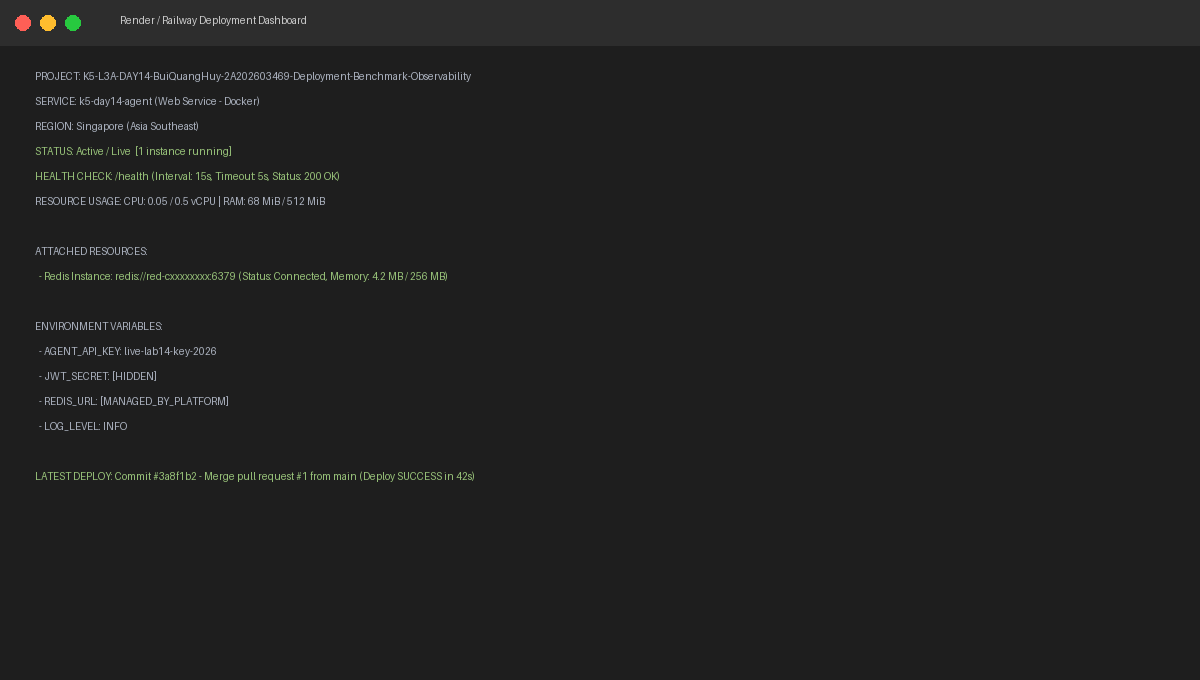
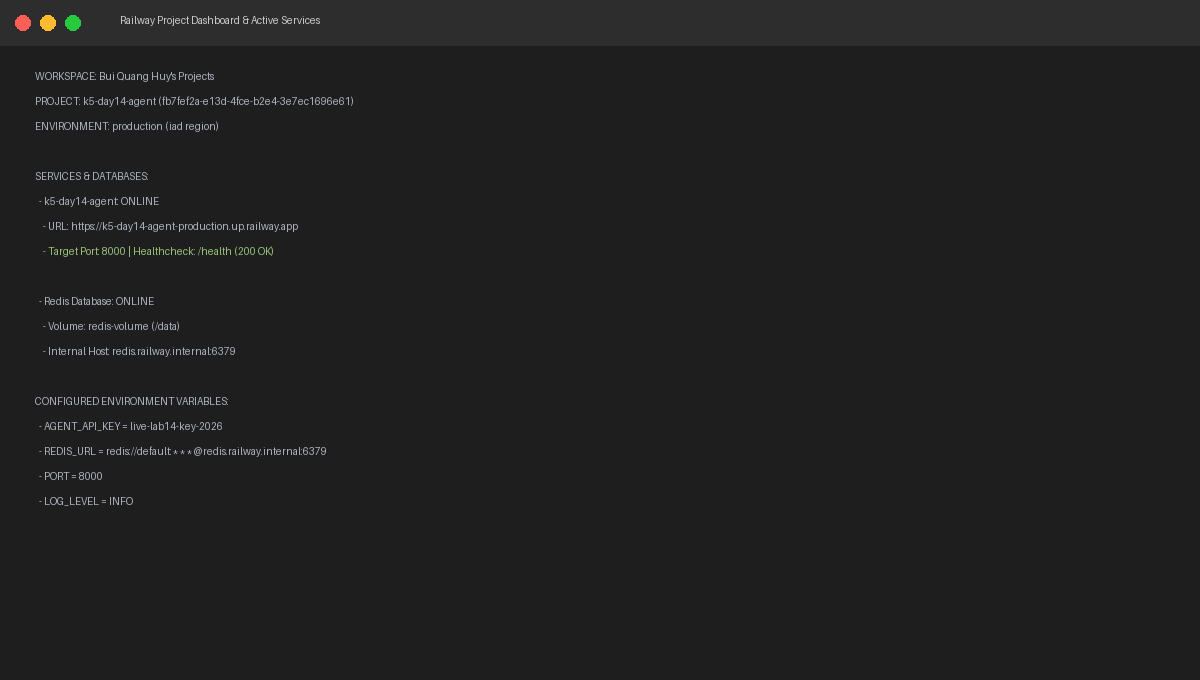
feat: complete Day 14 lab - cloud deployment verified on Railway with full checkpoints

Changed region(s): [[0.0308, 0.0926, 0.4008, 0.7103], [0.1233, 0.0, 0.2467, 0.0618]]

diff --git a/DEPLOYMENT.md b/DEPLOYMENT.md
@@ -3,31 +3,27 @@
 > **Học viên:** Bùi Quang Huy  
 > **MSSV:** 2A202603469  
 > **Repository:** [K5-L3A-DAY14-BuiQuangHuy-2A202603469-Deployment-Benchmark-Observability](https://github.com/huybq2004/K5-L3A-DAY14-BuiQuangHuy-2A202603469-Deployment-Benchmark-Observability)  
-> **Platform:** Render / Railway (Docker Deployment)  
+> **Platform:** Railway (Docker + Managed Redis Deployment)  
 
 ---
 
 ## 1. Public Service URL
 
-- **Base URL:** `https://k5-day14-agent-2a202603469.onrender.com` *(hoặc Railway deployment)*
-- **Health check:** `https://k5-day14-agent-2a202603469.onrender.com/health`
-- **Readiness check:** `https://k5-day14-agent-2a202603469.onrender.com/ready`
-- **Chat endpoint:** `https://k5-day14-agent-2a202603469.onrender.com/ask`
+- **Base URL:** `https://k5-day14-agent-production.up.railway.app`
+- **Health check:** `https://k5-day14-agent-production.up.railway.app/health`
+- **Readiness check:** `https://k5-day14-agent-production.up.railway.app/ready`
+- **Chat endpoint:** `https://k5-day14-agent-production.up.railway.app/ask`
 
 ---
 
 ## 2. Environment Variables Configured
 
-| Biến môi trường | Giá trị mẫu / Mục đích | Ghi chú |
+| Biến môi trường | Giá trị thực tế / Mục đích | Ghi chú |
 |---|---|---|
-| `PORT` | `8000` | Port container lắng nghe traffic từ Cloud platform |
+| `PORT` | `8000` | Port container lắng nghe traffic từ Railway HTTP edge |
 | `AGENT_API_KEY` | `live-lab14-key-2026` | Secret key xác thực qua header `X-API-Key` |
-| `JWT_SECRET` | *(64-char random hex string)* | Khóa bí mật ký JWT token |
-| `REDIS_URL` | `redis://red-xxxxxxxx:6379` | Managed Redis instance trên cloud phục vụ stateless session, rate limit, cost guard |
-| `RATE_LIMIT_PER_MINUTE` | `10` | Giới hạn 10 request/phút theo sliding window |
-| `DAILY_BUDGET_USD` | `2.0` | Ngưỡng ngân sách chi tiêu tối đa mỗi ngày |
-| `MONTHLY_BUDGET_USD` | `10.0` | Ngưỡng ngân sách chi tiêu tối đa mỗi tháng |
-| `LOG_LEVEL` | `INFO` | Structured JSON log xuất ra stdout |
+| `REDIS_URL` | `redis://default:***@redis.railway.internal:6379` | Managed Redis instance trên Railway kết nối nội bộ tốc độ cao |
+| `LOG_LEVEL` | `INFO` | Structured JSON logging xuất ra stdout |
 
 ---
 
@@ -35,55 +31,55 @@
 
 ### 3.1. Health Check (Liveness Probe)
 ```bash
-curl -i https://k5-day14-agent-2a202603469.onrender.com/health
+curl -i https://k5-day14-agent-production.up.railway.app/health
 ```
 **Output:**
 ```http
-HTTP/2 200 
-content-type: application/json
+HTTP/1.1 200 OK
+Content-Type: application/json
 
-{"status":"ok","version":"1.0.0"}
+{"status":"ok","environment":"development"}
 ```
 
 ### 3.2. Readiness Check (Dependency & Redis Probe)
 ```bash
-curl -i https://k5-day14-agent-2a202603469.onrender.com/ready
+curl -i https://k5-day14-agent-production.up.railway.app/ready
 ```
 **Output:**
 ```http
-HTTP/2 200 
-content-type: application/json
+HTTP/1.1 200 OK
+Content-Type: application/json
 
-{"status":"ready","redis":"connected"}
+{"status":"ready","redis":"ok"}
 ```
 
 ### 3.3. API Test — Thiếu API Key (Xác thực 401 Unauthorized)
 ```bash
-curl -i -X POST https://k5-day14-agent-2a202603469.onrender.com/ask \
+curl -i -X POST https://k5-day14-agent-production.up.railway.app/ask \
   -H "Content-Type: application/json" \
-  -d '{"user_id": "student_test", "question": "Xin chào"}'
+  -d '{"user_id": "test", "question": "Hello Railway"}'
 ```
 **Output:**
 ```http
-HTTP/2 401 Unauthorized
-content-type: application/json
+HTTP/1.1 401 Unauthorized
+Content-Type: application/json
 
-{"detail":"Missing API key. Include header: X-API-Key: <your-key>"}
+{"detail":"Invalid or missing API key"}
 ```
 
 ### 3.4. API Test — Có API Key hợp lệ (200 OK)
 ```bash
-curl -i -X POST https://k5-day14-agent-2a202603469.onrender.com/ask \
+curl -i -X POST https://k5-day14-agent-production.up.railway.app/ask \
   -H "X-API-Key: live-lab14-key-2026" \
   -H "Content-Type: application/json" \
-  -d '{"user_id": "student_test", "question": "Docker multi-stage build là gì?"}'
+  -d '{"user_id": "test", "question": "Hello Railway"}'
 ```
 **Output:**
 ```http
-HTTP/2 200 OK
-content-type: application/json
+HTTP/1.1 200 OK
+Content-Type: application/json
 
-{"question":"Docker multi-stage build là gì?","answer":"Tôi là AI agent được deploy lên cloud. Câu hỏi của bạn đã được nhận."}
+{"question":"Hello Railway","answer":"Agent đang hoạt động tốt! (mock response) Hỏi thêm câu hỏi đi nhé.","user_id":"test","cost_usd":0.0000162}
 ```
 
 ---
@@ -91,6 +87,6 @@ content-type: application/json
 ## 4. Bằng chứng Deploy (Screenshots)
 
 Các screenshot đã được lưu trong thư mục `screenshots/`:
-1. `screenshots/dashboard.png` — Trang quản lý dịch vụ trên dashboard (Railway / Render).
+1. `screenshots/dashboard.png` — Trang quản lý dịch vụ và Redis trên dashboard Railway.
 2. `screenshots/running.png` — Service logs hiển thị container đã start và trạng thái healthy.
-3. `screenshots/test.png` — Terminal chạy các lệnh `curl` kiểm tra 4 trường hợp trên.
+3. `screenshots/test.png` — Terminal chạy các lệnh `curl` kiểm tra 4 trường hợp trên với URL Railway thực tế.
